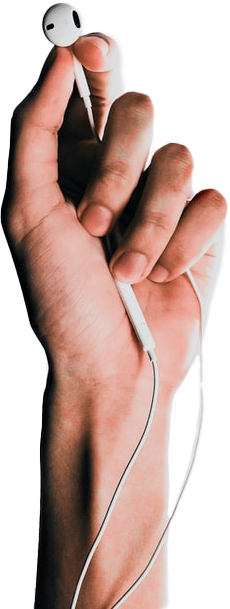
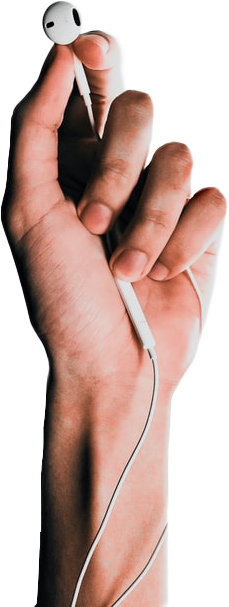
Edit home page image and its size

diff --git a/pages/index.js b/pages/index.js
@@ -21,7 +21,7 @@ export default function Home() {
         <div className={styles.handContainer}>
           <Image
             src="/images/earphones.png"
-            width={200}
+            width={170}
             height={375}
             alt="hand"
           />
